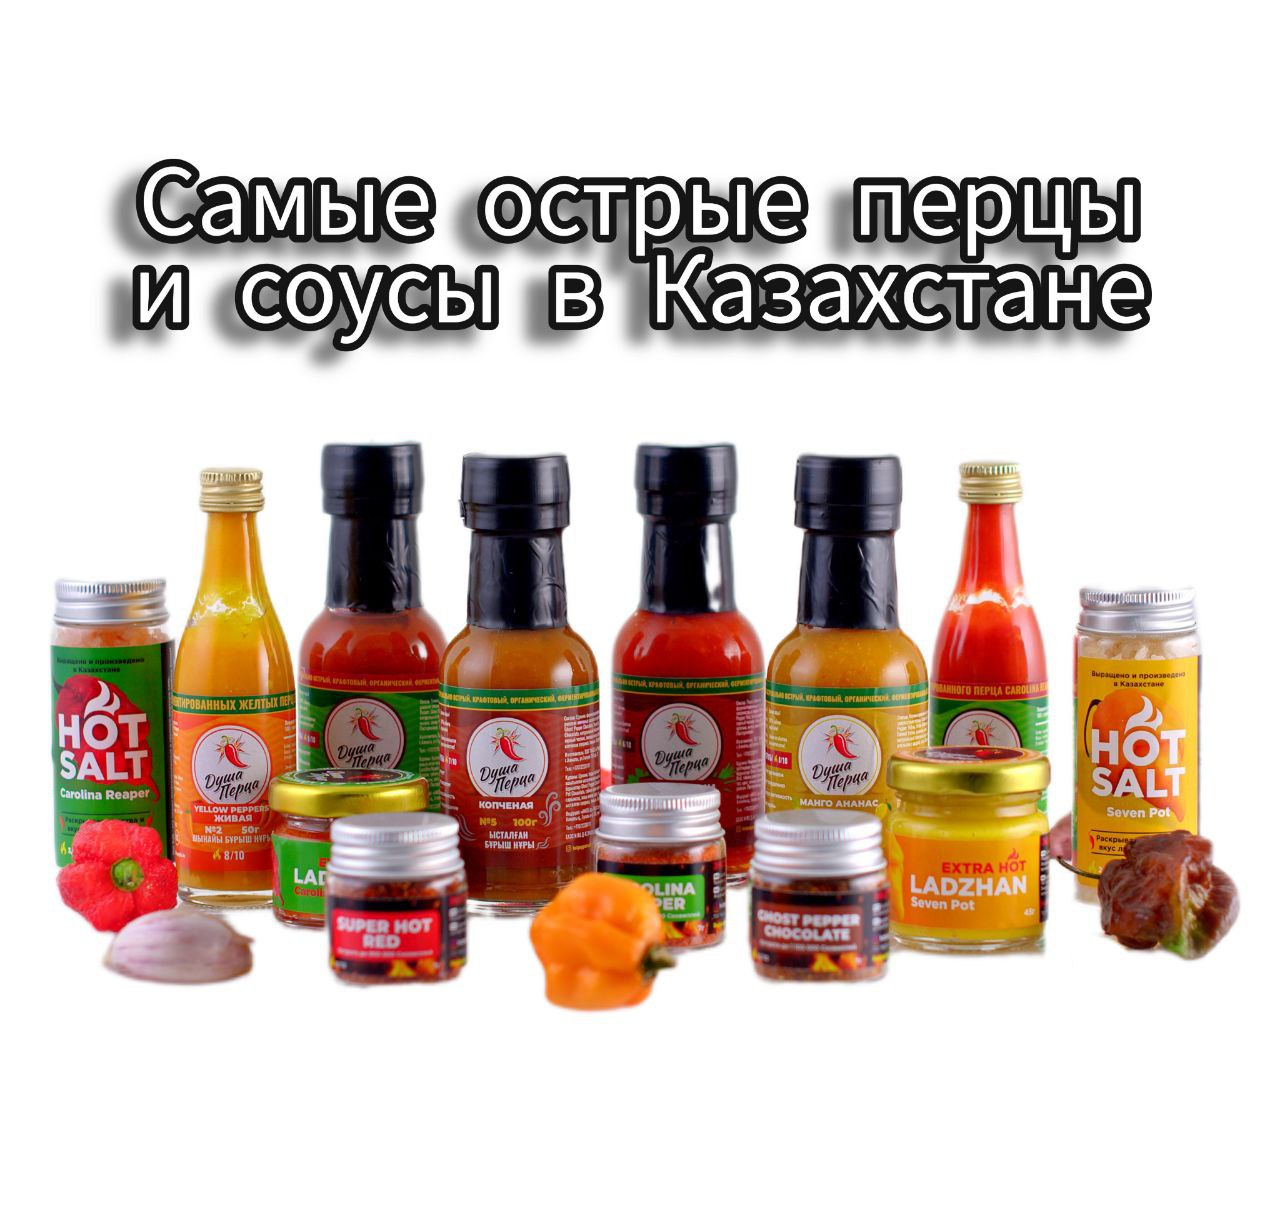
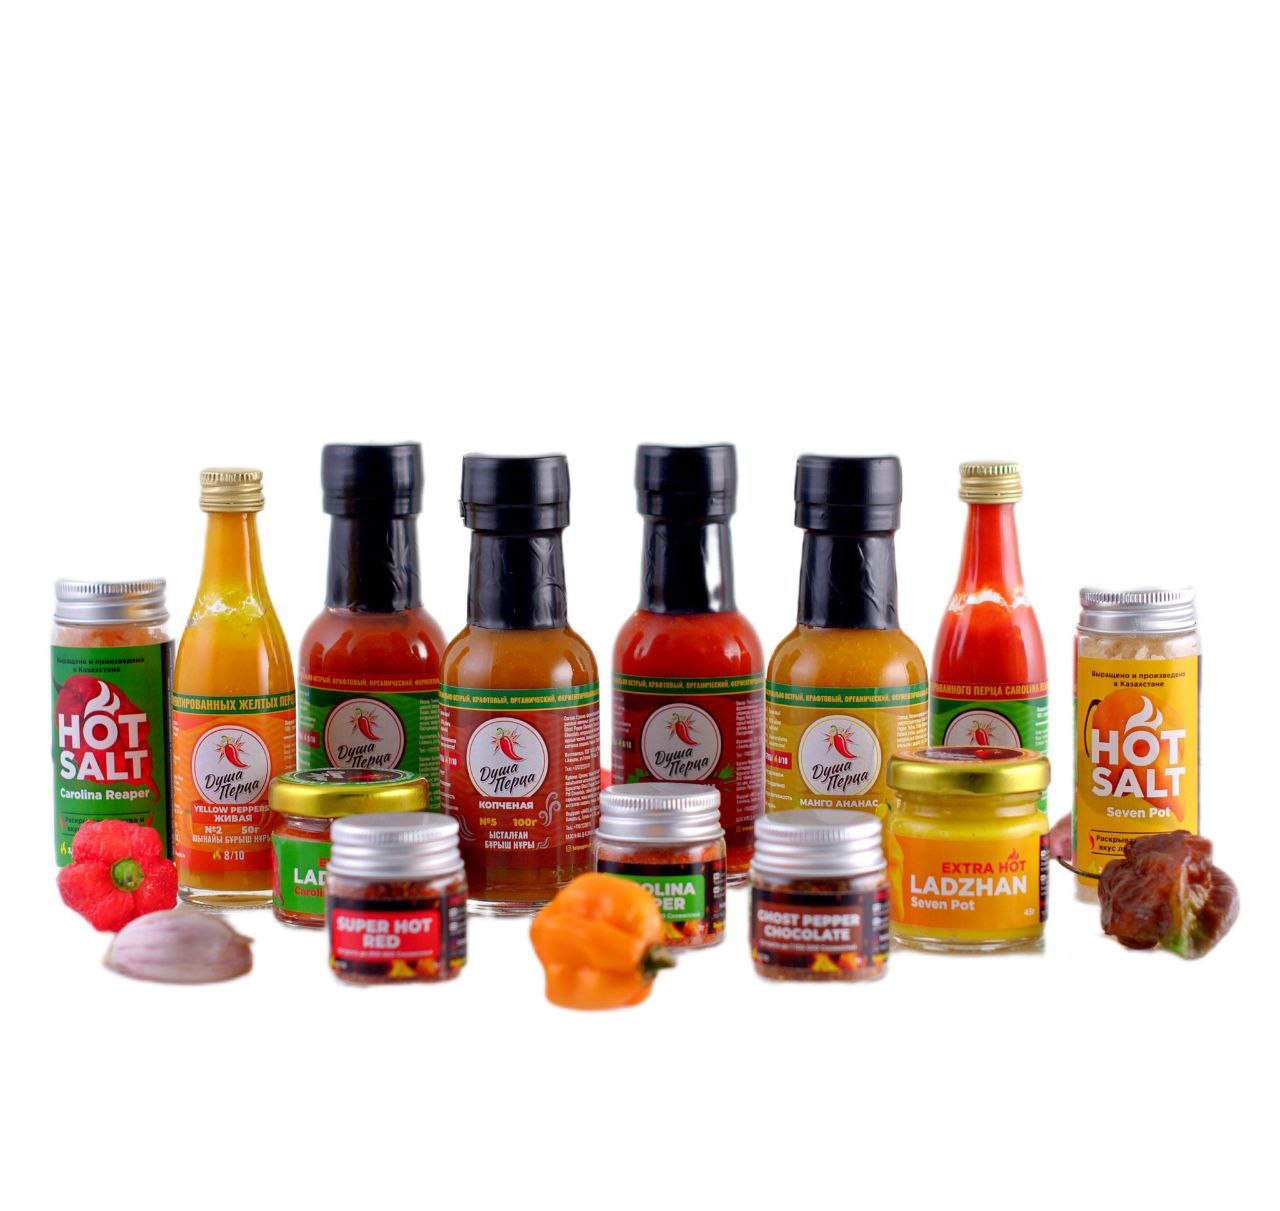
feat: image and title

Changed region(s): [[0.0625, 0.1222, 0.9062, 0.3055]]

diff --git a/src/views/HomeView.vue b/src/views/HomeView.vue
@@ -3,7 +3,9 @@
     <div class="intro__cover">
       <img src="../assets/home/intro.jpg" alt="Intro cover" />
     </div>
-    <h2 class="intro__title title">Экстра острые соусы в Казахстане 🌶🔥❤</h2>
+    <h2 class="intro__title title">
+      Самые Острые Перцы и Соусы в Казахстане 🌶🔥❤
+    </h2>
     <p class="intro__text text">
       Душа Перца предлагает вам окунуться в тонкий мир палящего вкуса.
     </p>
@@ -98,6 +100,8 @@ export default {
 
   &__title {
     margin-top: 30px;
+    padding: 0 20px;
+    text-align: center;
   }
 
   &__cover {
